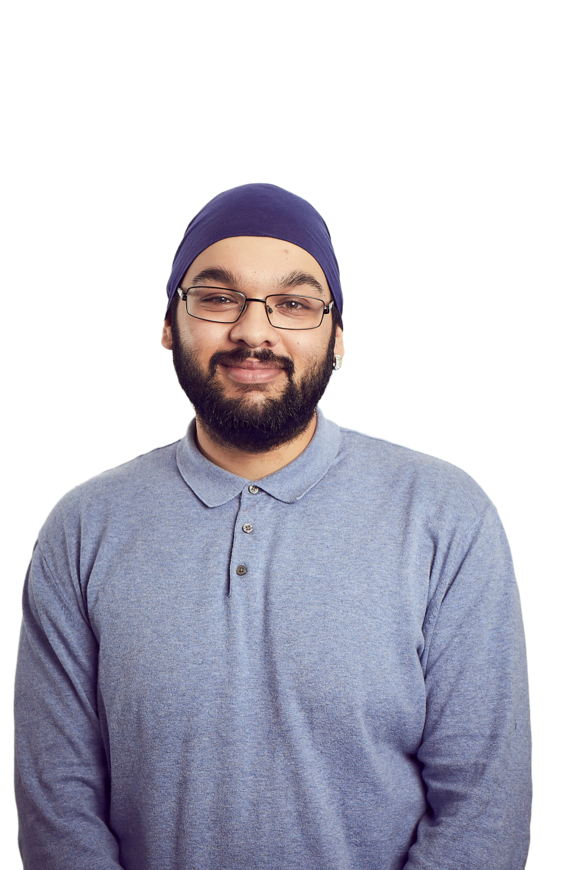
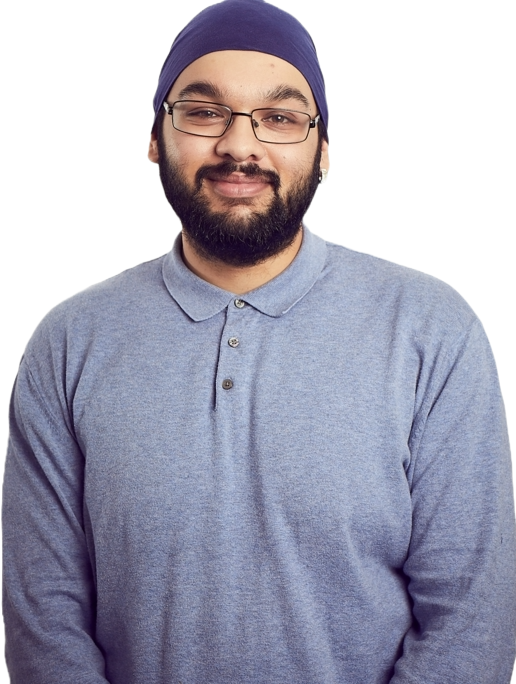
start about me page

diff --git a/app/about/page.js b/app/about/page.js
@@ -1,0 +1,84 @@
+import AnimatedHeadings from "@/components/AnimatedHeadings";
+import Layout from "@/components/Layout";
+import Image from "next/image";
+import ProfilePic from "../../public/images/profile/profile-pic-1.png";
+
+export const metadata = {
+  title: "Mandeep Singh | About Page",
+  description: "Page detailing information about Mandeep Singh",
+};
+
+export default function Page() {
+  return (
+    <main className="flex w-full flex-col items-center justify-center">
+      <Layout className="pt-16">
+        <AnimatedHeadings text="My Journey!" className="mb-16" />
+        <div className="grid w-full grid-cols-8 gap-40">
+          <div className="col-span-3 flex flex-col items-start justify-start">
+            <h2 className="mb-4 text-lg font-bold uppercase text-dark/75">
+              Personal statement
+            </h2>
+            <p className="font-medium">
+              Having always had a passion for technology, there was only ever
+              one industry I wanted to build a future in.
+            </p>
+
+            <p className="my-4 font-medium">
+              I began my journey with an I.T apprenticeship. This allowed me to
+              enter the industry, study and acquire certifications. It also
+              helped me to land a role as an I.T support professional where I
+              was able to build up my technical knowledge as well as develop
+              transferable skills.
+            </p>
+
+            <p className="font-medium">
+              After a decade of service, it was time for a change. I wanted to
+              go on a new adventure. A new career path. So I took a risk and
+              decided to leave my job in tech support and move into software
+              development. This led me do a coding bootcamp where I built 3
+              different projects and learnt fundamental coding skills all within
+              the space of 4 months.
+            </p>
+
+            <p className="mt-4 font-medium">
+              It also gave me the desire to regularly enhance my skill set
+              through continuous learning. Since completing the bootcamp, I have
+              not looked backwards. Only forwards!
+            </p>
+          </div>
+          <div className="col-span-3 relative h-max rounded-2xl border-2 border-solid border-dark  p-8 bg-light">
+            <div className="absolute top-0 -right-3 -z-10 w-[102%] h-[103%] rounded-[2rem] bg-dark" />
+            <Image
+              src={ProfilePic}
+              alt="Mandeep Singh"
+              className="w-full h-auto rounded-2xl"
+            />
+          </div>
+
+          <div className="col-span-2 flex flex-col items-end justify-between">
+            <div className="flex flex-col items-end justify-center">
+              <span className="inline-block text-5xl font-bold">10</span>
+              <h2 className="text-xl font-medium capitalize text-dark/75">
+                Years in I.T Support
+              </h2>
+            </div>
+
+            <div className="flex flex-col items-end justify-center">
+              <span className="inline-block text-7xl font-bold">1</span>
+              <h2 className="text-xl font-medium capitalize text-dark/75">
+                Year coding experience
+              </h2>
+            </div>
+
+            <div className="flex flex-col items-end justify-center">
+              <span className="inline-block text-7xl font-bold">1</span>
+              <h2 className="text-xl font-medium capitalize text-dark/75">
+                Exciting Future
+              </h2>
+            </div>
+          </div>
+        </div>
+      </Layout>
+    </main>
+  );
+}
